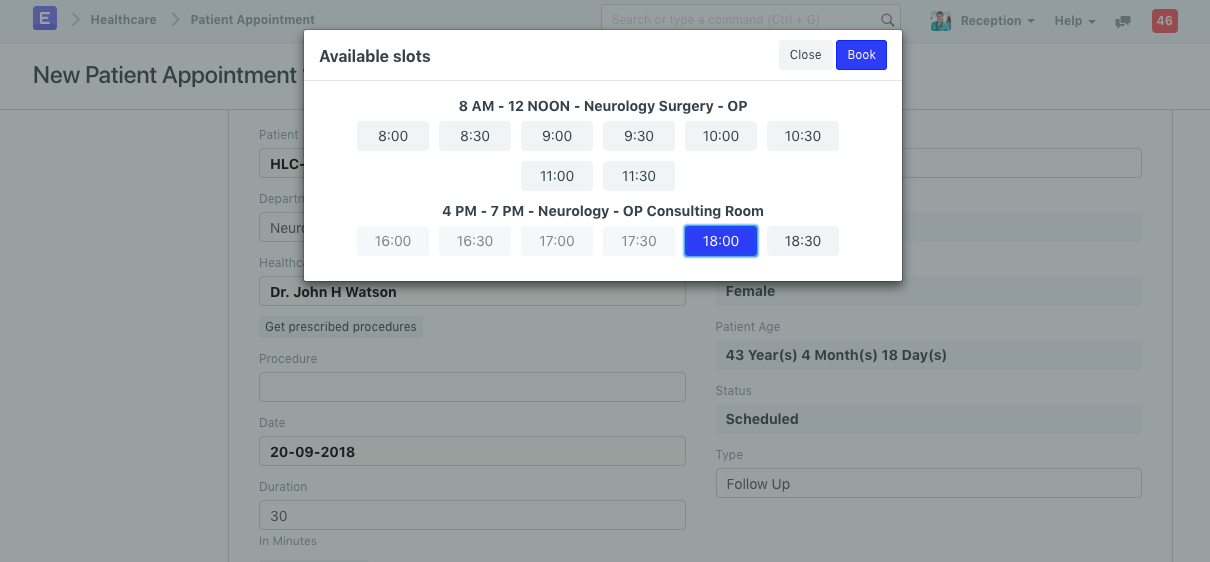
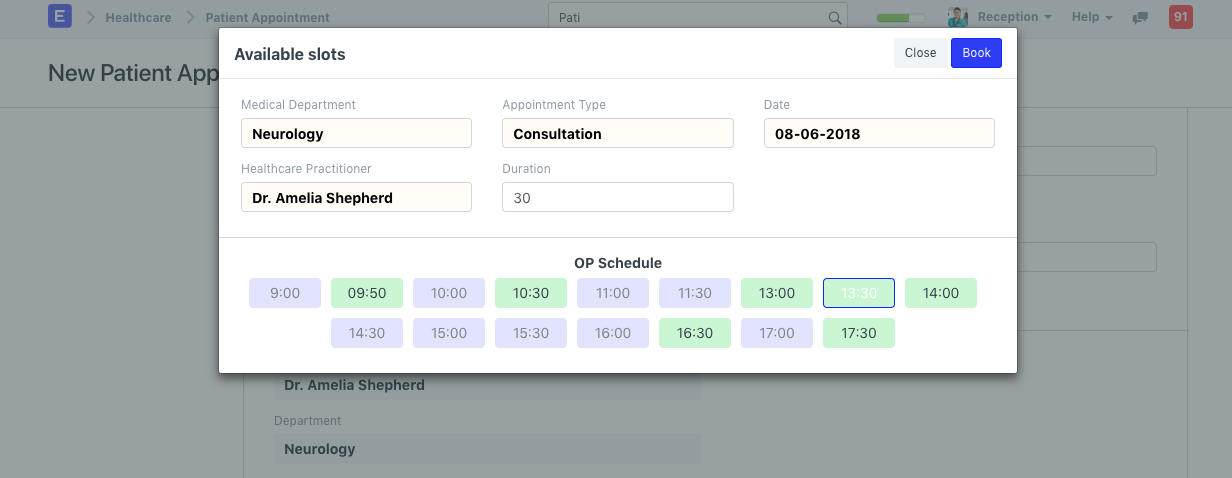
screen hsots, minor corrections

diff --git a/foundation/www/docs/user/manual/en/healthcare/appointment.md b/foundation/www/docs/user/manual/en/healthcare/appointment.md
@@ -1,34 +1,35 @@
 <!-- add-breadcrumbs -->
 # Patient Appointment
-ERPNext Healthcare allows you to book Patient appointments for any date and if configured, send them alerts via Email or SMS.
+ERPNext Healthcare allows you to book Patient appointments for any date and alert patients via Email or SMS. You can easily organize appointments for each Practitioner based on their availability schedules.
 
 <img class="screenshot" alt="ERPNext Healthcare" src="{{docs_base_url}}/assets/img/healthcare/appointment_calendar.png">
 
-You can create a Patient Appointment from
+You can create a Patient Appointment from,
+
 `Healthcare > Appointment Booking > Patient Appointment`
 
-You can book appointments for a registered Patient by searching and selecting the Patient field. The Patient Appointment form allows you to search the Patient by Patient ID, Name, Email or Mobile number. You can also register a new Patient from the Appointment screen by selecting `Create a new Patient` in the Patient field.
+You can book appointments for a registered Patient by searching for Patient by Patient ID, Name, Email or Mobile number. It is also possible to register a new Patient from the Appointment screen itself by selecting `Create a new Patient` in the Patient field.
 
 <img class="screenshot" alt="ERPNext Healthcare" src="{{docs_base_url}}/assets/img/healthcare/appointment_1.png">
 
-If you have a front desk executive to manage your appointments, you can configure a user role to have access to Patient Appointment so that she can do the bookings by selecting the Physician whom the Patient wish to consult and the date for booking.
+If you need to book appointments for procedures select a Procedure or use `Get Ordered Procedures` to select from a list of Procedures that are ordered for the selected Patient.
 
-Note that, selecting the `Appointment Type` will automatically set the duration of the appointment as configured. This will allow you to override the duration of appointments set by the Practitioner Schedule and the time slots will adjust to the next available time automatically.
+`Check Availability` button will allow you to select the Practitioner, Appointment Type and Date for which the appointment is to be booked. On selecting the details, all the available time slots for the practitioner be displayed with status indicators for the selected date. You can select a time slot and `Book` an Appointment for the Patient.
 
-`Check Availability` button will pop up all the available time slots with status indicators for the selected date. She can select a time slot and `Book` the Appointment for the Patient.
+Note that, selecting the `Appointment Type` will automatically set the duration of the appointment as configured in the Appointment Type. This will allow you to override the duration of appointments set by the Practitioner Schedule and the time slots will adjust to the next available time automatically. To disable this behavior, you can enable `Always Use Slot Duration as Appointment Duration` in the Practitioner master. This will always set the slot duration configured in the Practitioner Schedule as the Appointment duration.
 
 <img class="screenshot" alt="ERPNext Healthcare" src="{{docs_base_url}}/assets/img/healthcare/appointment_2.png">
 
-> Note: Appointment booking considers any 'approved' Leave Applications for the Practitioner (Employee linked in the master) are found
+> Note: Appointment booking considers any 'approved' Leave Applications for the Practitioner (Employee linked in the master) and does not allow bookings on such days.
 
-Once booked, the scheduled time of the Appointment and the Service Unit as per the Practitioner and appropriate Status will be set in the document. The More Info section of Patient Appointment, user can add *Notes* and also select a *Referring Practitioner* to help you track manage referrals.
+Once booked, the scheduled time of the Appointment and the Service Unit as per the Practitioner and appropriate Status will be set in the document. The More Info section of Patient Appointment, user can add *Notes* and also select a *Referring Practitioner* to help you track referrals.
 
 Optionally, you can configure ERPNext to automatically send an SMS alert to the Patient about the booking confirmation -
 
 `Healthcare > Healthcare Settings > Out Patient SMS Alerts`
 
 ### Invoicing
-ERPNext Healthcare allows you to automatically create Invoice as you book an Appointment. To enable this option, you can turn on this option
+ERPNext Healthcare allows you to automatically create an Invoice as you book an Appointment. To enable this option, you can turn on this option
 
 `Healthcare > Healthcare Settings > Invoice Appointments Automatically`
 

diff --git a/foundation/www/docs/user/manual/en/healthcare/clinical_procedure.md b/foundation/www/docs/user/manual/en/healthcare/clinical_procedure.md
@@ -5,6 +5,7 @@ You can use this document to map all the clinical procedures, for example, wound
 You can lookup and book Patient Appointment from the ordered procedures for a patient by using the `Get Prescribed Procedures` button available in Patient Appointment. The performing practitioner can easily create a new procedure from a booked appointment using the `Create > Procedure` button.
 
 You can also create a Clinical Procedure by going to
+
 `Healthcare > Patient Care > New Clinical Procedure`
 
 If you are creating a Clinical Procedure manually, you may want to select a Patient Appointment for the procedure so that all details as provided by the Practitioner while ordering the procedure will be made available. Or you can also select a Clinical Procedure template so as to fetch the details of the procedure as configured in the template.
